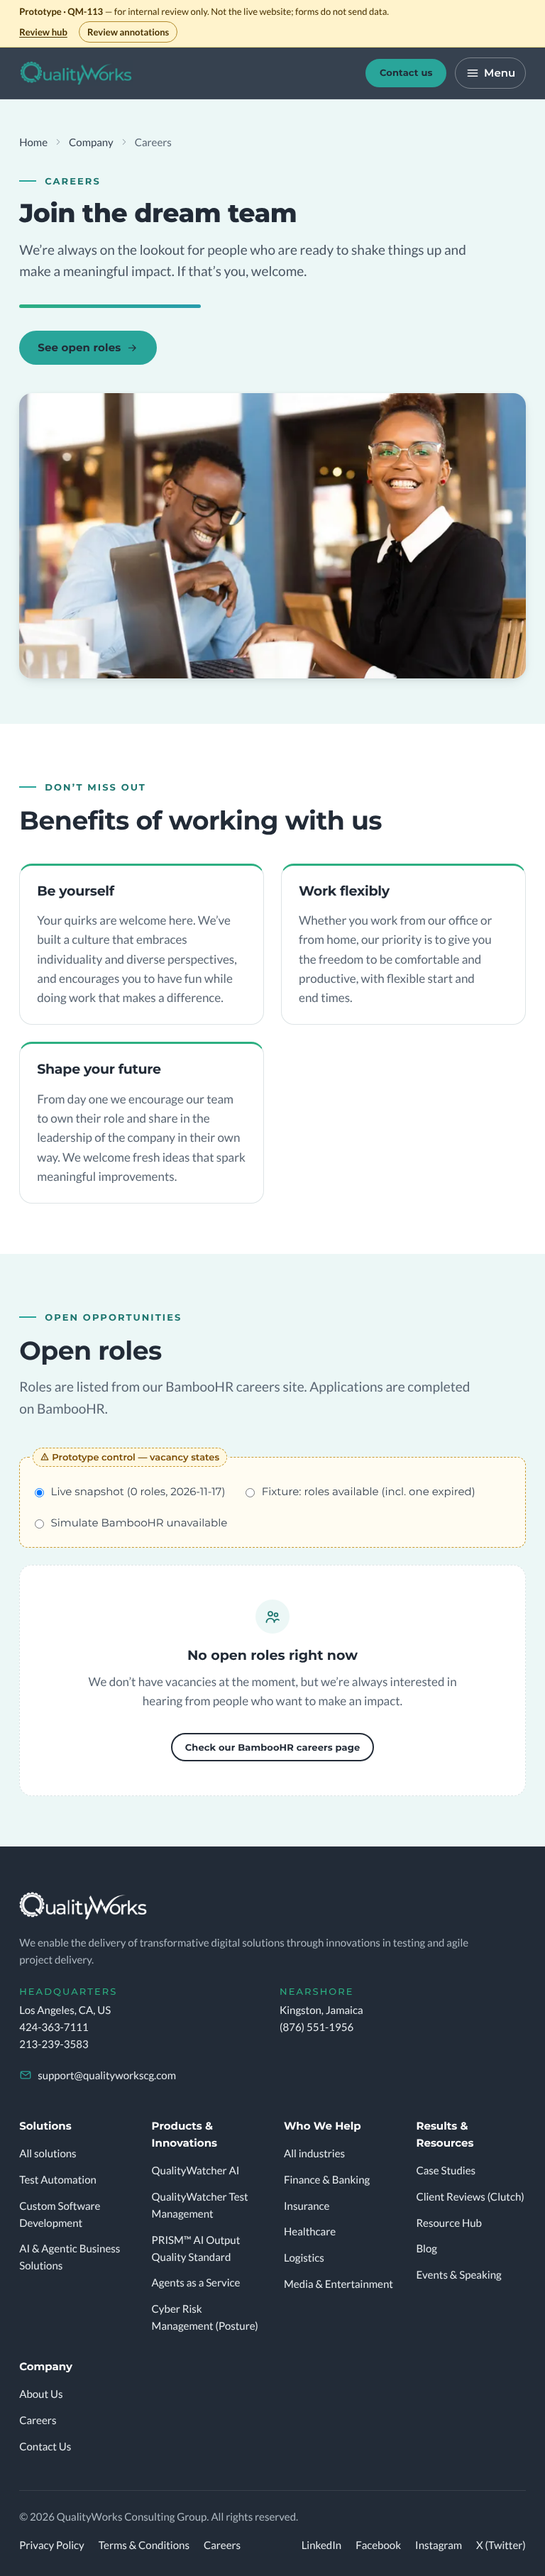
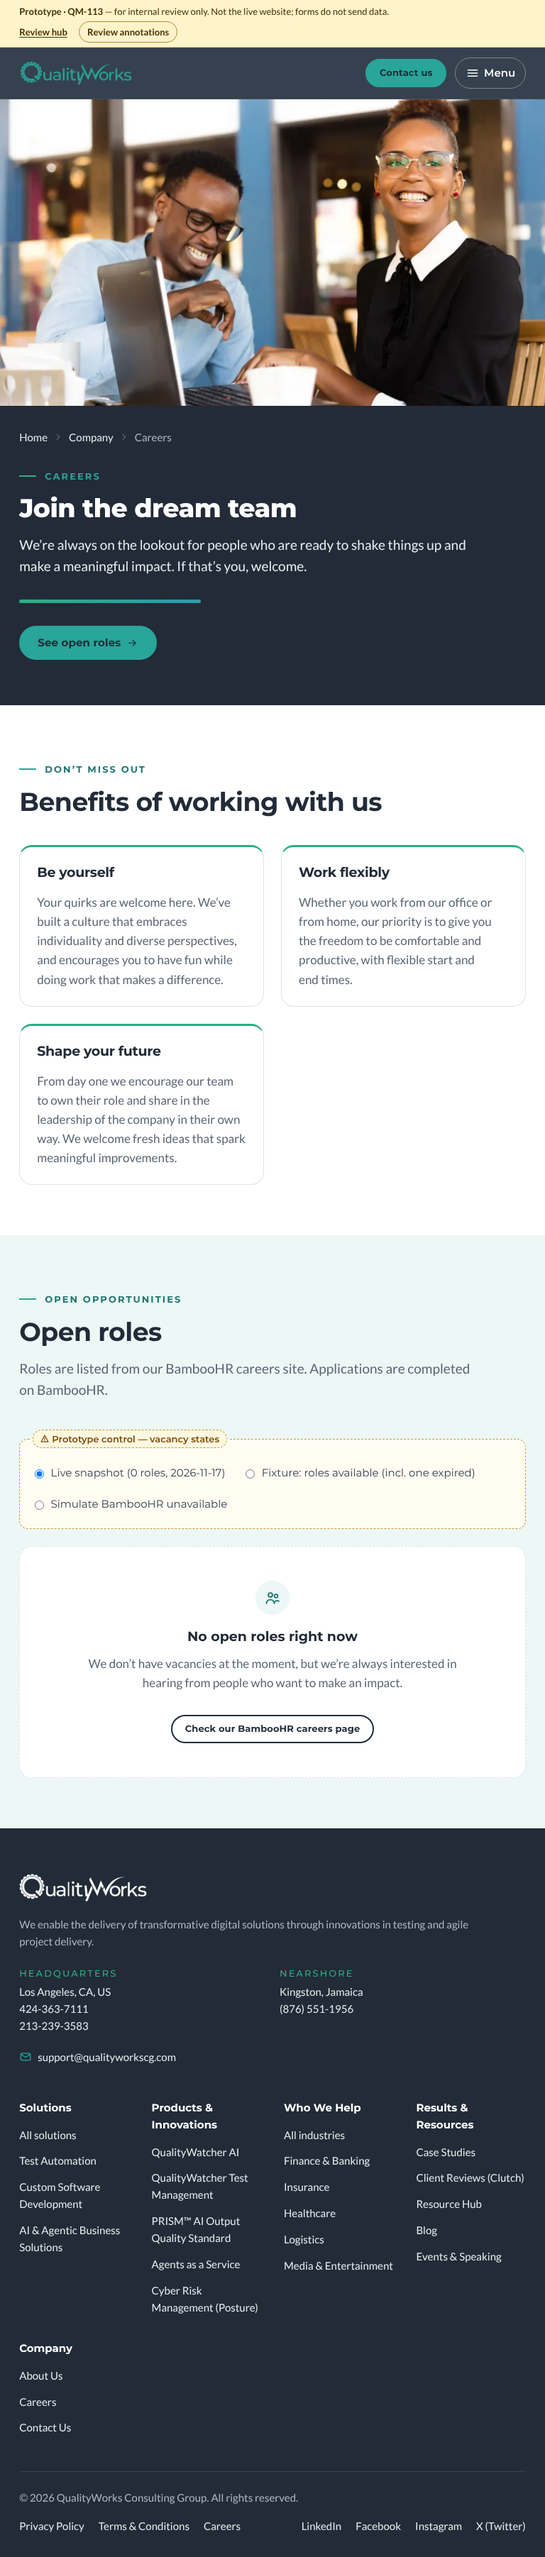
Blended photo headers on inner pages; Contact uses the shared header; fix glyph-lint failure in docs
- PageHero image headers now match the homepage: slate band, photo on the right 62% blending into slate,
  no boxed card; below 1024px a plain edge-to-edge picture above the copy
- Contact Us uses the shared photo header; details and form follow below
- Replace >= and arrow characters in docs 02, 15 and the QA log (they failed glyph-lint in the previous commit)
- Header text contrast measured on 11 pages at 1024-1920px (min 4.73:1); docs 02, 07, 15 and CONTRIBUTING updated

Claude-Session: https://claude.ai/code/session_01Qc26FnjfVXpFhdTjFk3B31

diff --git a/docs/15-visual-revision.md b/docs/15-visual-revision.md
@@ -24,8 +24,8 @@ No earlier "existing prototype" with people-featuring headers was found in the p
 **Before:** a dark ink gradient with a concentric-ring motif and a faint grid (no people). This is what read as "AI-generated".
 
 **After:**
-- The homepage hero is a **photograph of two people working through a technical problem at a workstation** (`home-mentoring`, originally `AdobeStock_507970416` on the live site, 2560px source → 800/1600/2400px WebP).
-- **Desktop (≥ 1100px):** the photo fills the hero; a slate-900 scrim sits behind the copy (solid to 38% of the width, ≥ 92% to 50%) and fades out toward the people on the right. Text never depends on the photo for contrast (measured in §5).
+- The homepage hero is a **photograph of two people working through a technical problem at a workstation** (`home-mentoring`, originally `AdobeStock_507970416` on the live site, 2560px source to 800/1600/2400px WebP).
+- **Desktop (at least 1100px):** the photo fills the hero; a slate-900 scrim sits behind the copy (solid to 38% of the width, at least 92% to 50%) and fades out toward the people on the right. Text never depends on the photo for contrast (measured in §5).
 - **Tablet and mobile (< 1100px):** the photo is a 16:9 band **above** the copy, so text never covers faces.
 - H1, lede, both CTAs, the company facts and the three pathway cards are unchanged and still above the fold at 1440 × 900 (AC-HOME-1, QA-16).
 - The concentric-ring motifs (homepage hero, inner-page heroes, CTA band) and the grid overlay on corporate heroes were removed. The fine grid stays only on the **product** layer (QualityWatcher, Agents as a Service, PRISM), where it signals product UI.
@@ -51,7 +51,7 @@ No earlier "existing prototype" with people-featuring headers was found in the p
 | Light-page text (guide stylesheet) | `#4A5663` lead, `#5A6673` muted, `#DDE4E6` hairline | `--qw-text-lead`, `--qw-muted`, `--qw-line` | Light-surface text and borders |
 | State | `#2CB07E` / `#E8B34A` / `#E2624E` | `--qw-caution` (caution used) | Status indicators only |
 
-### Before → after
+### Before and after
 
 | Role | Before | After |
 |---|---|---|
@@ -70,7 +70,7 @@ No earlier "existing prototype" with people-featuring headers was found in the p
 | Muted text on dark | `#9AA7B4` | `#AEB8C1` |
 | Hairline | `#DCE3E6` | `#DDE4E6` |
 | Highlight / event status | gold `#F4B942` | caution `#E8B34A` |
-| CTA band | gradient `#16202B → #123C44` + rings | solid slate 800 |
+| CTA band | gradient `#16202B to #123C44` + rings | solid slate 800 |
 
 **Derived shades (not in the guide; pending confirmation):** `--qw-teal-700 #1D766F` and `--qw-teal-800 #18625C` (the guide's teal and its own light-page eyebrow colour `#1F8D84` are 3.02:1 and 4.04:1 on white, below AA for small text), and `--qw-mint-200 #C9E8E5` (border tint). Accessible feedback colours (`#B42318`, `#B45309`, `#2F7A3E`) remain for form errors and badges because the guide's state swatches fail as text on white. Review-only annotation colours (amber) are unchanged.
 
@@ -86,15 +86,17 @@ No earlier "existing prototype" with people-featuring headers was found in the p
 
 ## 4. Page headers revised
 
+**Treatment (revised 20 Nov 2026 after Debra-Kaye's review):** every photo header uses the same blend as the homepage, with no boxed or rounded photo card. The header is a slate-900 band. From 1024px the photo fills the right 62% of the band at full height and blends into slate on its left edge (and slightly at the bottom). The copy column (max 32rem) sits on the solid part of the band. Below 1024px the photo is a plain edge-to-edge 16:9 picture at the top of the header, with nothing over it, followed by the copy. Measured worst-case contrast behind header text (11 pages at 1024, 1280, 1440 and 1920px): eyebrow 4.73:1, H1 7.42:1, lede 5.8:1, breadcrumbs 7.1:1.
+
 | Page | Change |
 |---|---|
 | Homepage | Full-width people photograph (see §1) |
-| About Us | Header photo: colleagues working through a problem (`about-team`) |
-| Careers | Header photo: two colleagues at a laptop (`careers-colleagues`) |
-| Services overview | Header photo: two engineers at a screen (`services-pair`, the live homepage hero) |
-| Contact Us | Photo in the left column on desktop only (`contact-team`); phones keep the form near the top |
-| Industries: Finance & Banking, Healthcare, Social Impact, Insurance, Logistics, Retail, Technology | Header photo from the matching live-site industry image (`heroImage` in `src/data/industries.ts`) |
-| All inner pages | Mint hero surface, brand gradient rule, no ring motif |
+| About Us | Blended photo header: colleagues working through a problem (`about-team`) |
+| Careers | Blended photo header: two colleagues at a laptop (`careers-colleagues`) |
+| Services overview | Blended photo header: two engineers at a screen (`services-pair`, the live homepage hero) |
+| Contact Us | Now uses the shared photo header (`contact-team`); "What happens next", other contact channels and the form follow in the section below |
+| Industries: Finance & Banking, Healthcare, Social Impact, Insurance, Logistics, Retail, Technology | Blended photo header from the matching live-site industry image (`heroImage` in `src/data/industries.ts`) |
+| Other inner pages | Mint hero surface (text-only), brand gradient rule, no ring motif |
 
 **Deliberately unchanged:** product pages (QualityWatcher AI, Agents as a Service, PRISM) keep the product surface and product preview; case-study pages keep their own case-study image; service detail pages keep the "At a glance" panel (adding a stock photo would not help a buyer compare services); articles keep their featured images. Public Sector, Small Business and Media & Entertainment have no suitable people photo on the live site (text header kept; see §6).
 
@@ -105,13 +107,15 @@ No earlier "existing prototype" with people-featuring headers was found in the p
 | `npm run build` | 102 pages (doc 15 added); glyph lint clean (Montserrat + Lato); data integrity check clean; 18 redirect rules (pending host) |
 | `npm run qa:checks` (Playwright + axe-core) | **35 pass, 0 fail, 2 blocked** (QA-31 HubSpot, QA-32 screen reader: no access in this environment). Two failures found during the revision were fixed: button text contrast in the header CTA, teal text on translucent dark cards (QA-08), and a 38px overflow at 360px on Contact (QA-07) |
 | QA-09 fonts in a real browser | Every glyph on 8 representative pages drawn by Montserrat or Lato |
-| Hero text over photo (pixel-sampled worst case behind each text element, 1100/1280/1440/1920px) | Eyebrow ≥ 4.66:1, H1 ≥ 12.99:1, lede ≥ 7.25:1, facts ≥ 6.67:1 |
+| Hero text over photo (pixel-sampled worst case behind each text element, 1100/1280/1440/1920px) | Eyebrow at least 4.66:1, H1 at least 12.99:1, lede at least 7.25:1, facts at least 6.67:1 |
 | Old-palette scan of built CSS/HTML | 0 occurrences of `#16202B`, `#8FC640`, `#F4B942`, `#5FC3CF`, `#1B7480`, `#0E1817`, canvas/tint greys; 0 references to Red Hat |
 | Visual review | Desktop 1440, tablet 820, mobile 390 for Home, About, Careers, Contact, Services, Test Automation, Finance & Banking, Case Studies, fintech case study, QualityWatcher AI, Agents as a Service; homepage also at 1100, 1280, 1920; mega-menu, mobile drawer and footer. Logged as MQ-25 to MQ-28 in doc 07 |
 | `npm run check:content` | Marketing 0, source 0 (review documents informational only) |
 | `npm run build:release` | Fails by design (doc 12 launch blockers); no new blocker types |
 
 Not verified: Safari, Firefox and Edge rendering (MQ-20 still open); real-device testing; screen-reader walkthrough.
+
+**Preview-link fix (20 Nov 2026).** The first republish of the review link showed no photos: the script that converts the build for the review link rewrote `src` but not `srcset`, so browsers requested image paths that do not exist on the preview host. The repository build was not affected. The script now rewrites `srcset`, and the republished review link was checked in a browser (every header image loads).
 
 ## 6. Missing assets, conflicts and decisions for Janique
 

diff --git a/docs/07-qa-testing-summary.md b/docs/07-qa-testing-summary.md
@@ -5,7 +5,7 @@ summary: "Automated and manual verification results, with evidence and open issu
 
 # QA testing summary
 
-**Run:** 2026-11-20 18:04 UTC against `http://localhost:4321` · **Routes:** 101 · **Result:** 35 pass, 0 fail, 2 blocked. Generated by `scripts/qa-checks.mjs` + `scripts/qa-report.mjs`; evidence screenshots in `qa-output/evidence/`.
+**Run:** 2026-11-20 18:15 UTC against `http://localhost:4321` · **Routes:** 101 · **Result:** 35 pass, 0 fail, 2 blocked. Generated by `scripts/qa-checks.mjs` + `scripts/qa-report.mjs`; evidence screenshots in `qa-output/evidence/`.
 
 **Rule applied:** a test is *Pass* only when the behaviour is actually exercised in the browser. Mocked behaviour (simulated submission, simulated loading/error, fixture vacancies) is stated in *Open issue*. Real integrations are **Blocked**, not passed. The QM-112 AC ID column cites QM-112 v0.5 requirement numbers and AC IDs (document read 18 Nov 2026).
 
@@ -84,8 +84,8 @@ Visual review of full-page screenshots at 360 / 768 / 1024 / 1440 px for 16 key 
 | MQ-22 | WSSC case study (desktop + mobile) | “The client” heading; tool sentence reads “generated draft test cases from requirement documents for QA engineers to review” | Pass (visual + text assertion) |
 | MQ-23 | About Us (desktop + mobile) | Mission line reads “for our clients” | Pass (text assertion) |
 | MQ-24 | US Navy AI testing challenge post (desktop + mobile) | “self-healing selectors”, neutral integrations sentence without “40+”, “new solutions” | Pass (text assertion) |
-| MQ-25 | Homepage hero (1100, 1280, 1440, 1920, tablet 820, mobile 390) | People photograph is the visual focus; faces not covered by text; copy on slate scrim; pathways above the fold at 1440 × 900; worst-case text contrast behind copy measured ≥ 4.66:1 | Pass (visual + pixel sampling, 20 Nov 2026) |
-| MQ-26 | Inner headers with people (About, Careers, Services, Contact desktop, 7 industry pages) at 1440 / 820 / 390 | Photo crop keeps faces in frame; photo follows copy below 1024px; Contact photo hidden on phones so the form stays near the top | Pass (visual) |
+| MQ-25 | Homepage hero (1100, 1280, 1440, 1920, tablet 820, mobile 390) | People photograph is the visual focus; faces not covered by text; copy on slate scrim; pathways above the fold at 1440 × 900; worst-case text contrast behind copy measured at least 4.66:1 | Pass (visual + pixel sampling, 20 Nov 2026) |
+| MQ-26 | Inner headers with people (About, Careers, Services, Contact, 7 industry pages) at 1440 / 820 / 390 | Revised: blended photo band like the homepage (no boxed card); plain edge-to-edge picture above the copy below 1024px; faces kept in frame; header text contrast at least 4.73:1 measured at 1024 to 1920px | Pass (visual + pixel sampling) |
 | MQ-27 | Brand palette and logo across header, mega-menu, drawer, buttons, cards, badges, forms, CTA band, footer | Brand Guidelines v1.0 colours only (plus documented derived shades and feedback colours); teal wordmark on Slate 800 header, white wordmark in drawer and footer; 0 old-palette values in built CSS | Pass (visual + scan) |
 | MQ-28 | Typography (Montserrat display, Lato body) | Headings, buttons, navigation, labels, eyebrows in Montserrat; paragraphs in Lato; no awkward wraps found at 360–1920px; review-only "simulated submission" badge wraps at 360px (fixed) | Pass (visual + QA-09) |
 

diff --git a/docs/02-design-direction.md b/docs/02-design-direction.md
@@ -30,7 +30,7 @@ summary: "Older corporate pages vs. newer product pages, and the unified system 
 A refined B2B editorial system on the brand's slate canvas, with people photography in headers and one technical accent layer for products.
 
 - **From the Brand Guidelines v1.0:** teal wordmark on Slate 800 (header) and white reversed wordmark (footer, drawer); Green `#2CAF81`, Teal `#29A59A`, Blue `#289DAD`, Mint `#ECF7F6`; the slate canvas; Montserrat display + Lato body; uppercase teal eyebrows with 0.16em tracking; pill buttons; 6/12/18px radii; 1120px content width; one gradient moment per page; "Engineered for Excellence." with the period.
-- **People-focused headers:** the homepage hero is a full-width photograph of people working together, with a slate scrim behind the copy; About, Careers, Services and seven industry pages show a people photograph beside the header copy (`PageHero` `image` prop, `src/data/peopleImagery.ts`). Photos come from the live site; they are not presented as employees.
+- **People-focused headers:** the homepage hero is a full-width photograph of people working together, with a slate scrim behind the copy; About, Careers, Services, Contact and seven industry pages use the same treatment: a slate band with the photo on the right blending into slate (a plain full-width picture above the copy on phones) (`PageHero` `image` prop, `src/data/peopleImagery.ts`). Photos come from the live site; they are not presented as employees.
 - **Retained:** pathway panel in the homepage hero, *&lt;beyond the code&gt;* phrase, core copy, dash-framed eyebrow (short accent rule + label), static scannable proof instead of carousels.
 - **Removed:** concentric gear-ring motifs and the corporate grid overlay (they read as generated imagery), the two-tone logo, Red Hat Display / Mono.
 - **Product layer:** the `surface-product` theme (Slate 950 `#1A212B`) with a fine grid, used on QualityWatcher, Agents as a Service, PRISM and the homepage products band.
@@ -62,7 +62,7 @@ A refined B2B editorial system on the brand's slate canvas, with people photogra
 | ink-1 `#E7ECEF` on slate 800 | 8.71 | Navigation, CTA band text |
 | ink-2 `#AEB8C1` on slate 900 | 7.10 | Muted on dark |
 | `#5A6673` on white / Mint | 5.86 / 5.36 | Muted on light |
-| Green on slate 800 (focus ring in header) | 3.73 | Focus indicator (≥ 3:1) |
+| Green on slate 800 (focus ring in header) | 3.73 | Focus indicator (at least 3:1) |
 
 ## 5. Restraint rules
 

diff --git a/docs/_manual-qa.md b/docs/_manual-qa.md
@@ -33,7 +33,7 @@ Visual review of full-page screenshots at 360 / 768 / 1024 / 1440 px for 16 key 
 | MQ-22 | WSSC case study (desktop + mobile) | “The client” heading; tool sentence reads “generated draft test cases from requirement documents for QA engineers to review” | Pass (visual + text assertion) |
 | MQ-23 | About Us (desktop + mobile) | Mission line reads “for our clients” | Pass (text assertion) |
 | MQ-24 | US Navy AI testing challenge post (desktop + mobile) | “self-healing selectors”, neutral integrations sentence without “40+”, “new solutions” | Pass (text assertion) |
-| MQ-25 | Homepage hero (1100, 1280, 1440, 1920, tablet 820, mobile 390) | People photograph is the visual focus; faces not covered by text; copy on slate scrim; pathways above the fold at 1440 × 900; worst-case text contrast behind copy measured ≥ 4.66:1 | Pass (visual + pixel sampling, 20 Nov 2026) |
-| MQ-26 | Inner headers with people (About, Careers, Services, Contact desktop, 7 industry pages) at 1440 / 820 / 390 | Photo crop keeps faces in frame; photo follows copy below 1024px; Contact photo hidden on phones so the form stays near the top | Pass (visual) |
+| MQ-25 | Homepage hero (1100, 1280, 1440, 1920, tablet 820, mobile 390) | People photograph is the visual focus; faces not covered by text; copy on slate scrim; pathways above the fold at 1440 × 900; worst-case text contrast behind copy measured at least 4.66:1 | Pass (visual + pixel sampling, 20 Nov 2026) |
+| MQ-26 | Inner headers with people (About, Careers, Services, Contact, 7 industry pages) at 1440 / 820 / 390 | Revised: blended photo band like the homepage (no boxed card); plain edge-to-edge picture above the copy below 1024px; faces kept in frame; header text contrast at least 4.73:1 measured at 1024 to 1920px | Pass (visual + pixel sampling) |
 | MQ-27 | Brand palette and logo across header, mega-menu, drawer, buttons, cards, badges, forms, CTA band, footer | Brand Guidelines v1.0 colours only (plus documented derived shades and feedback colours); teal wordmark on Slate 800 header, white wordmark in drawer and footer; 0 old-palette values in built CSS | Pass (visual + scan) |
 | MQ-28 | Typography (Montserrat display, Lato body) | Headings, buttons, navigation, labels, eyebrows in Montserrat; paragraphs in Lato; no awkward wraps found at 360–1920px; review-only "simulated submission" badge wraps at 360px (fixed) | Pass (visual + QA-09) |

diff --git a/CONTRIBUTING.md b/CONTRIBUTING.md
@@ -172,7 +172,7 @@ Add a block to `scripts/qa-checks.mjs` using `rec(id, requirement, area, expecte
 1. Use a photo QualityWorks has the right to publish (the live site's images or approved team photography). Never use AI-generated people, and never describe stock subjects as staff or clients.
 2. Export WebP files at 800 and 1600px wide (plus 2400px for a full-width hero) to `public/people/{id}-{width}.webp`.
 3. Add a record to `src/data/peopleImagery.ts`: `alt` (what is visible, neutral), `focus` (CSS object-position that keeps faces in frame), `sourceUrl` and `licence`.
-4. Pass it to the header: `<PageHero image={peopleImage('id')} … />`, or set `heroImage` on an industry record. Check the crop at 390, 820 and 1440px.
+4. Pass it to the header: `<PageHero image={peopleImage('id')} … />`, or set `heroImage` on an industry record. The header becomes the dark blended photo band. Check the crop at 390, 820 and 1440px (faces must sit in the right-hand part of the photo on desktop).
 5. One photo per header. Do not add photos to body sections as decoration (doc 15 §4 lists the pages deliberately left without one).
 
 ### 4.11 Colours and fonts
